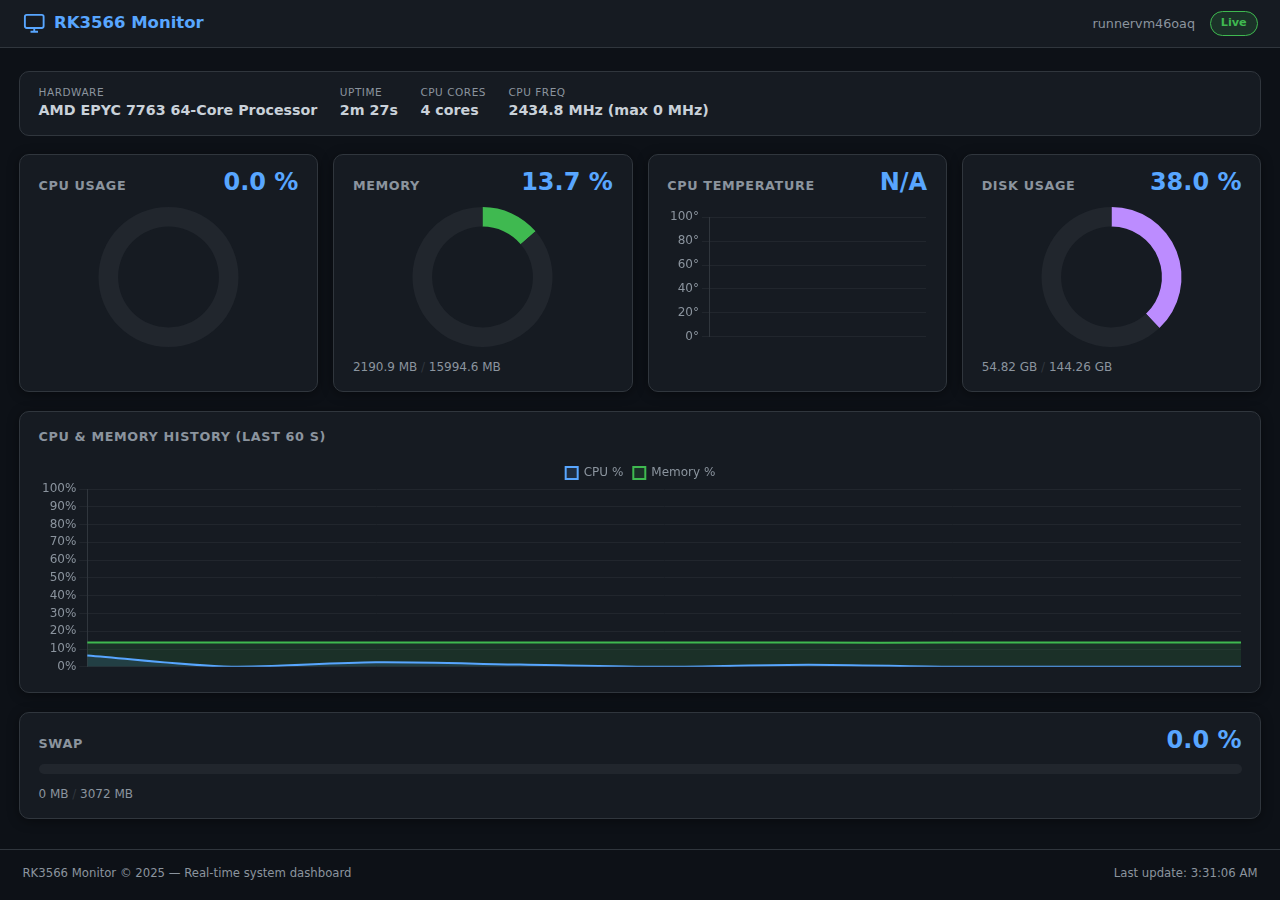
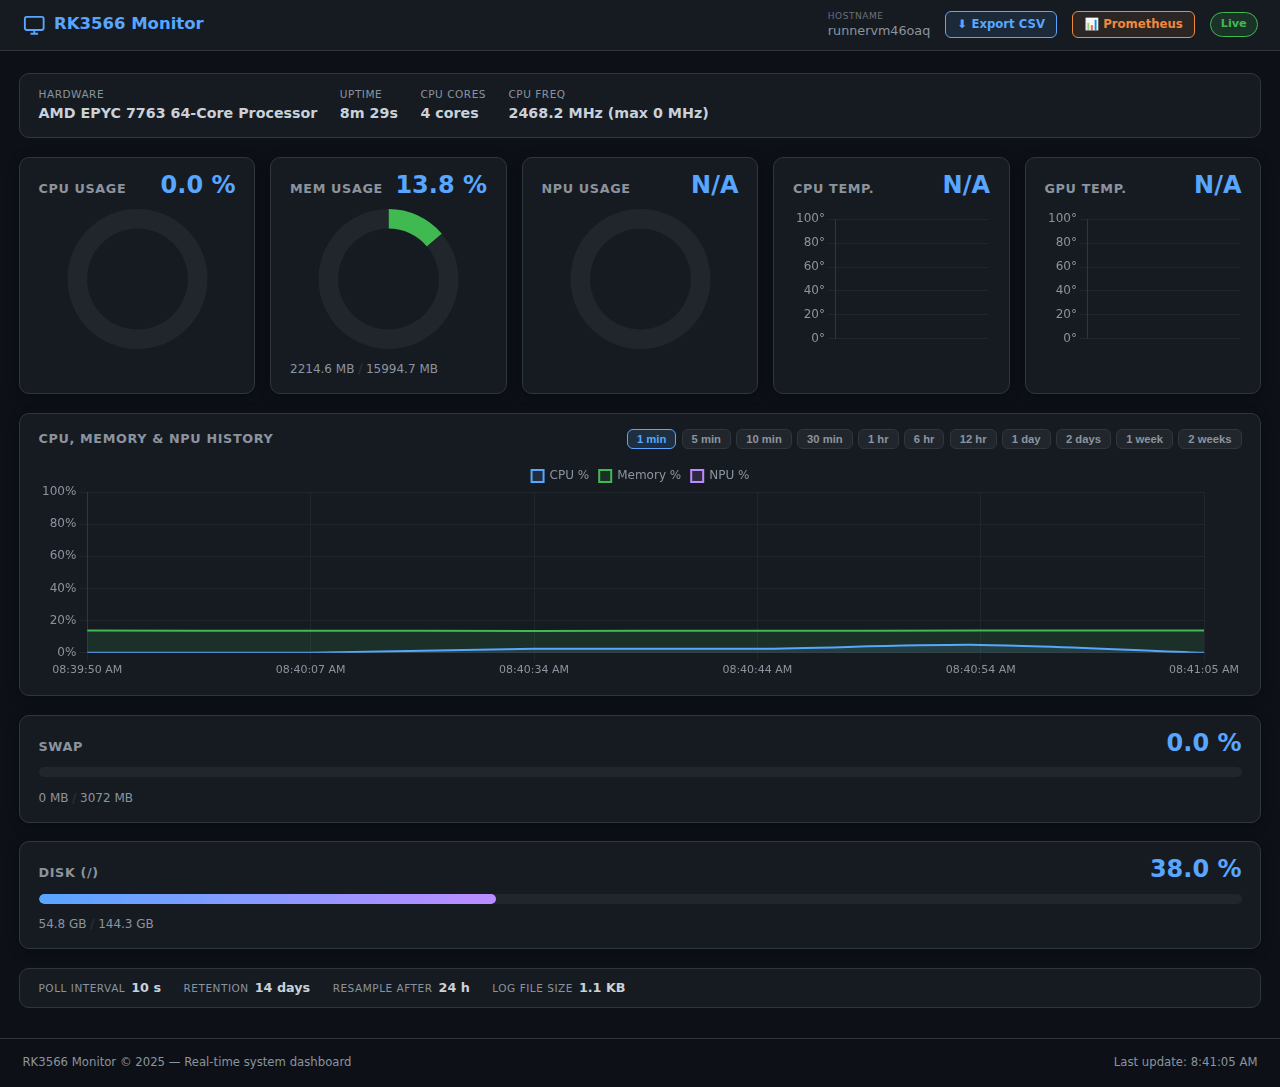
Add Hostname label to topbar and update README screenshot
Agent-Logs-Url: https://github.com/masterlog80/rk3566-monitor-copilot/sessions/be7784b4-c779-436d-b215-dc6bca908011

diff --git a/templates/index.html b/templates/index.html
@@ -25,7 +25,10 @@
       <span>RK3566 Monitor</span>
     </div>
     <div class="topbar-info">
-      <span id="hostname">–</span>
+      <span class="topbar-hostname">
+        <span class="topbar-hostname-label">Hostname</span>
+        <span id="hostname">–</span>
+      </span>
       <a class="btn-csv" href="/api/metrics/csv" download>⬇ Export CSV</a>
       <a class="btn-prom" href="/metrics" target="_blank" rel="noopener">📊 Prometheus</a>
       <span class="badge" id="conn-status">Connecting…</span>

diff --git a/static/styles.css b/static/styles.css
@@ -70,6 +70,20 @@ html, body {
   color: var(--text-dim);
 }
 
+.topbar-hostname {
+  display: flex;
+  flex-direction: column;
+  line-height: 1.25;
+}
+
+.topbar-hostname-label {
+  font-size: .6rem;
+  text-transform: uppercase;
+  letter-spacing: .06em;
+  color: var(--text-dim);
+  opacity: .7;
+}
+
 .badge {
   padding: .2rem .65rem;
   border-radius: 999px;

diff --git a/README.md b/README.md
@@ -21,7 +21,7 @@ docker compose -f docker-compose.yml up -d --remove-orphans
 
 ## Screenshot
 
-![RK3566 System Monitor Dashboard](https://github.com/user-attachments/assets/73709e3d-463c-4f7c-bec6-6d2ddc1b9d9d)
+![RK3566 System Monitor Dashboard](https://github.com/user-attachments/assets/708f87fd-5c0a-40a9-ab9b-fa7c941cc908)
 
 ## Features
 
